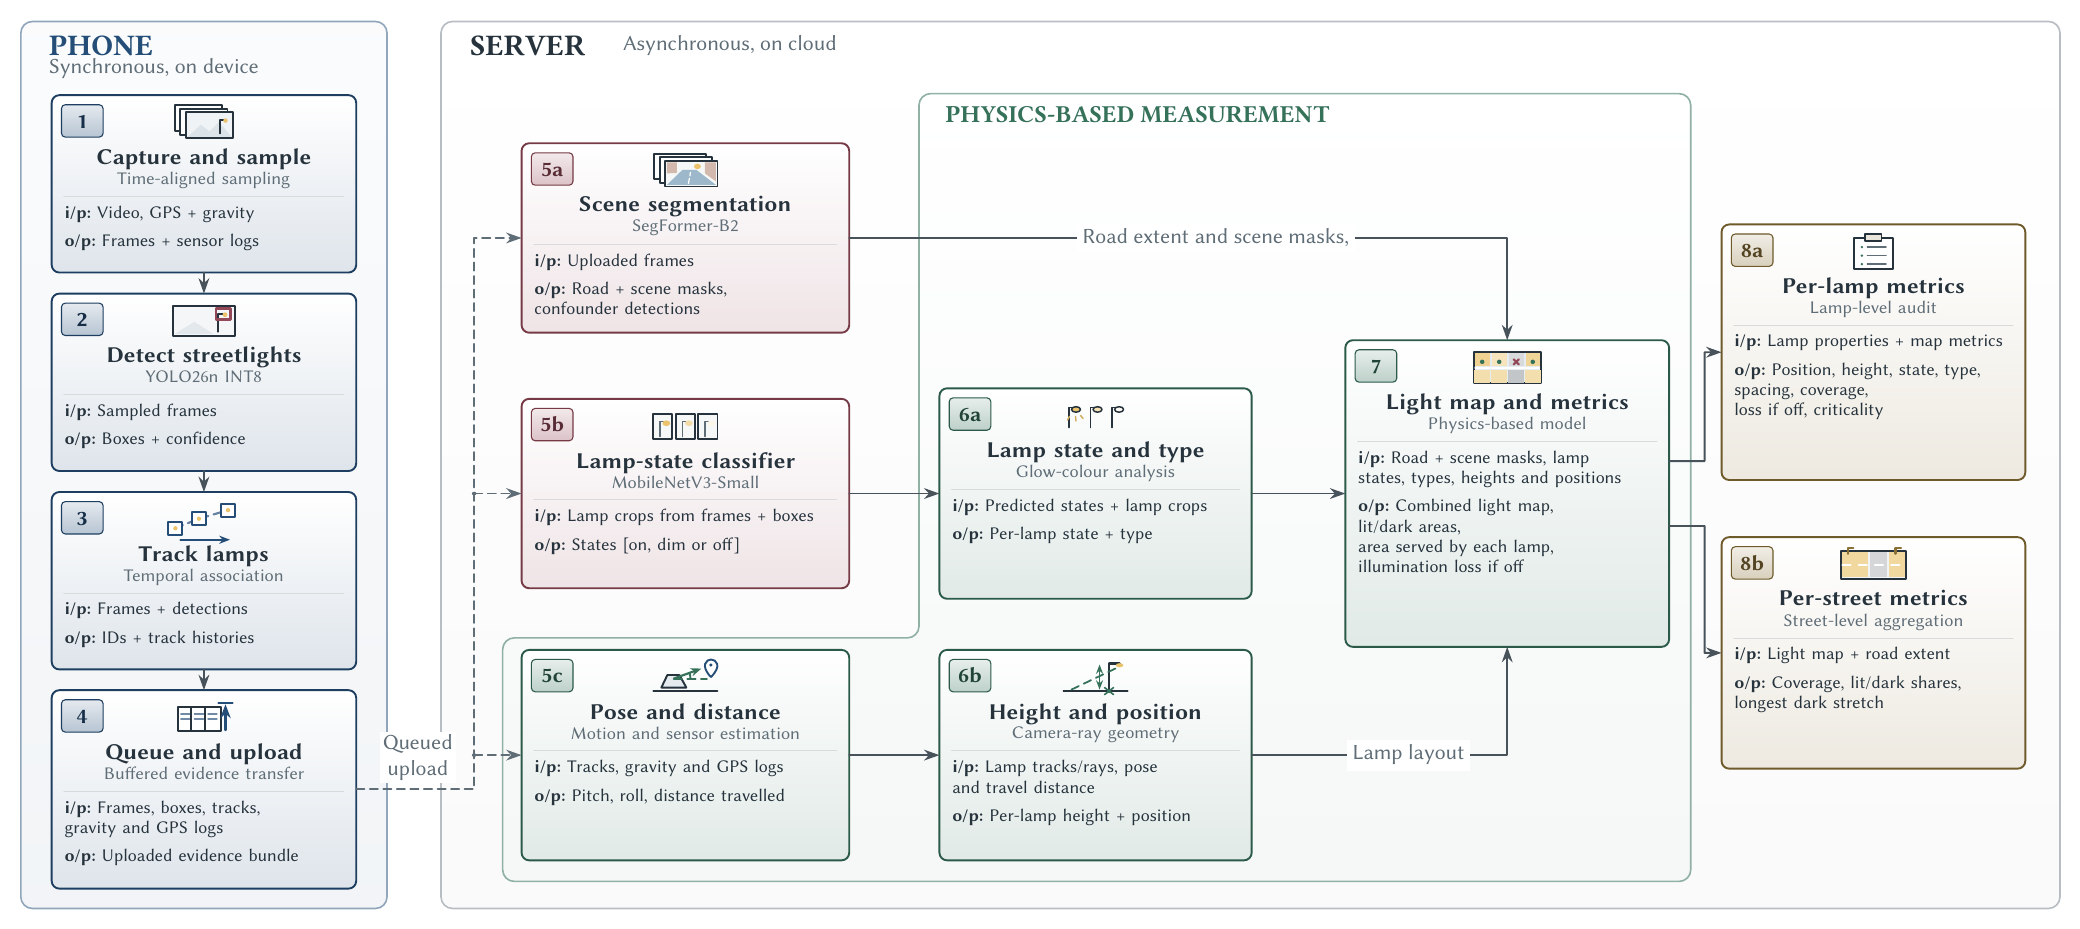
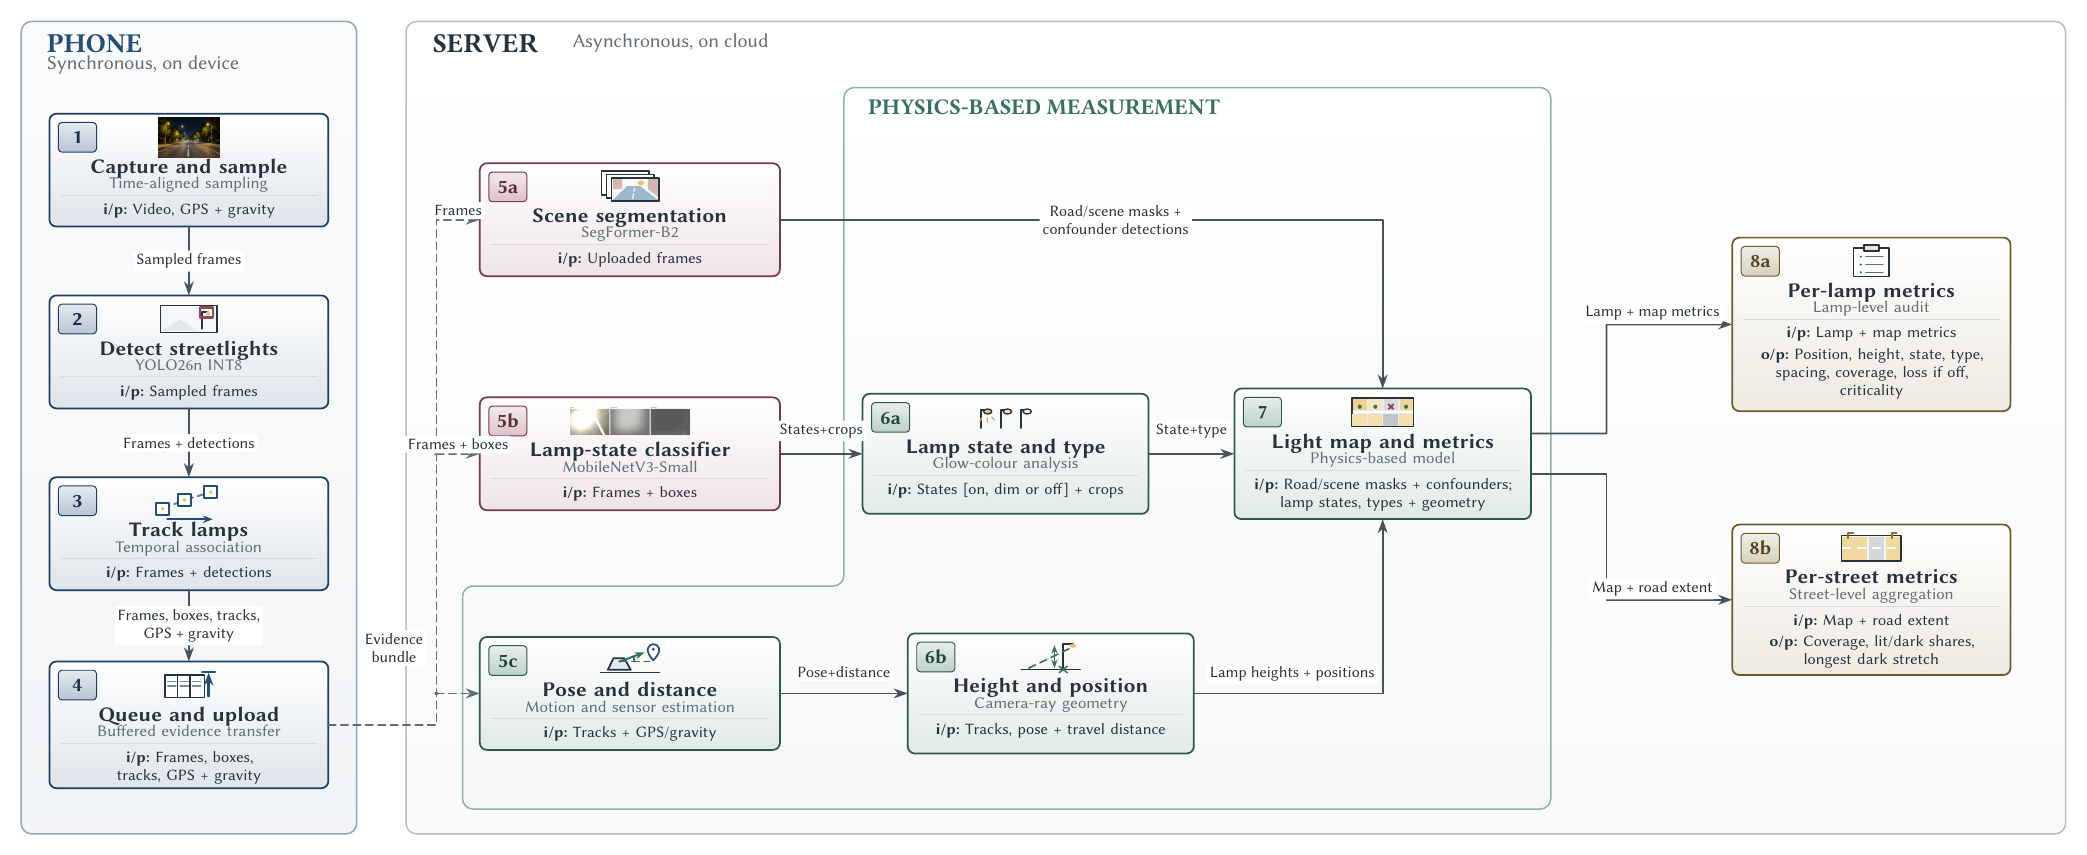
Update system architecture and light-map figures to the latest paper versions

diff --git a/index.html b/index.html
@@ -102,7 +102,7 @@
     <div class="container is-max-desktop">
       <div class="hero-body">
         <figure class="sliq-figure" style="margin-top:0">
-          <img src="static/images/pipeline.png" alt="System architecture of SLIQ: phone-side capture, detection, tracking and upload; cloud-side segmentation, lamp-state classification, pose, lamp height and position, light map and per-lamp and per-street metrics.">
+          <img src="static/images/pipeline.png" alt="System architecture of SLIQ: on the phone, capture, detection, tracking and upload; in the cloud, segmentation, lamp-state classification (On, Dim and Off crops shown), pose, lamp height and position, the light map, and per-lamp and per-street metrics.">
           <figcaption>System architecture of SLIQ. Numbered markers show the processing order: video capture, on-phone detection and tracking, upload, cloud processing, physical illumination modeling, and report generation.</figcaption>
         </figure>
         <p class="sliq-text">
@@ -148,8 +148,8 @@
     <div class="container is-max-desktop">
       <h2 class="title is-3 has-text-centered">Light maps and lamp-level metrics</h2>
       <figure class="sliq-figure">
-        <img src="static/images/lightmap_real.png" alt="A real night frame with tracked lamps and confounders, next to the modeled top-down light map of the same street." loading="lazy">
-        <figcaption>A real frame and the model light map of the same street. (a) Tracked lamps with their fitted state and height, and detected confounders. (b) The modeled light map from the camera to 40&nbsp;m ahead. Solid white lines bound lit road and dashed lines bound dark road. Lamp L20 lies above the image edge.</figcaption>
+        <img src="static/images/lightmap_real.png" alt="A real night frame with the modeled light map painted onto the road, a top-down light map of the same street, and a side view showing that one lamp is above the camera's field of view." loading="lazy">
+        <figcaption>A real frame and the model light map of the same street. (a) A frame from a training drive with the tracked lamps (fitted state and height) and the model light map projected onto the road, coloured by the lamp that lights each point (blue: dark road). (b) The light map from the camera to 40&nbsp;m ahead; solid lines bound lit road, dashed lines dark road, and hatching marks road not visible in (a). (c) Side view: lamp L20 lies above the camera's field of view (inset: L20 2.8&nbsp;s earlier).</figcaption>
       </figure>
       <figure class="sliq-figure">
         <img src="static/images/lightmap_schematic.png" alt="Schematic street with five lamps showing lit, in-between and dark road, served-area boundaries, the loss-if-off area of one lamp, and dark stretches, with the illuminance profile along the centre line." loading="lazy">
